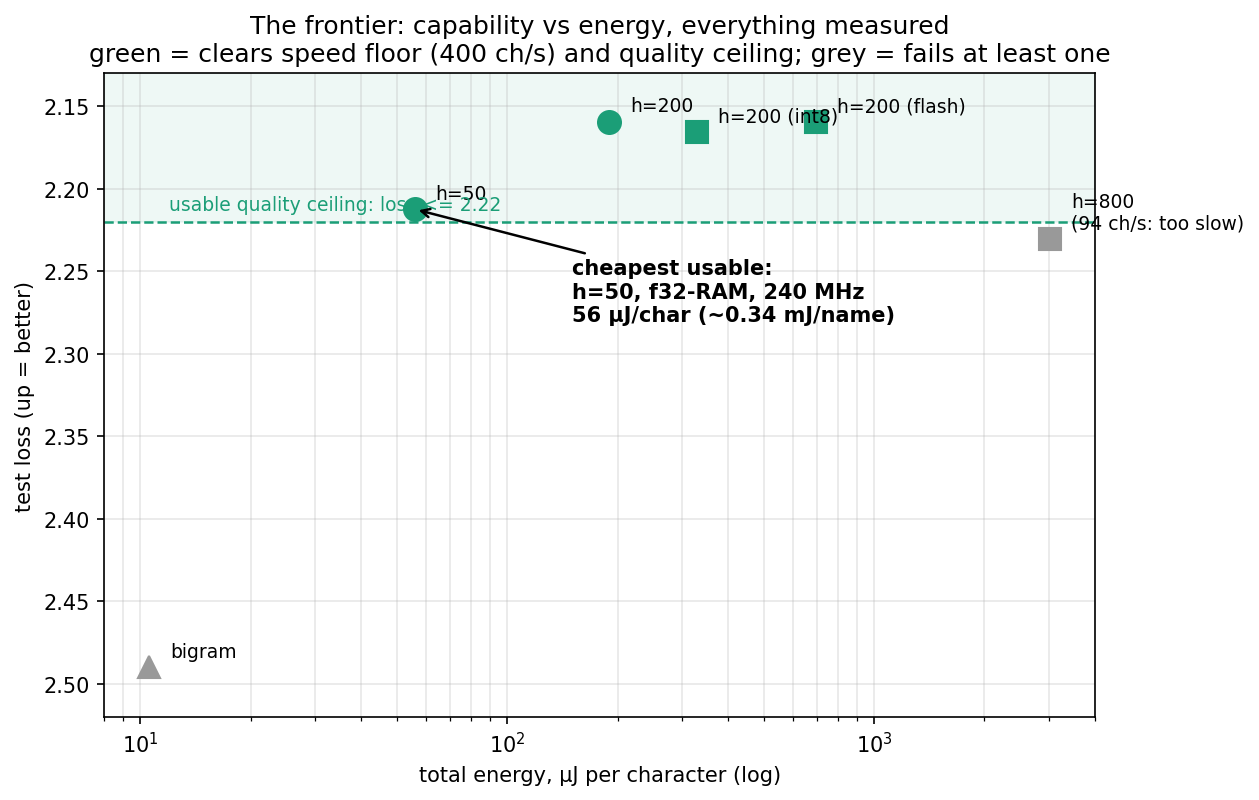
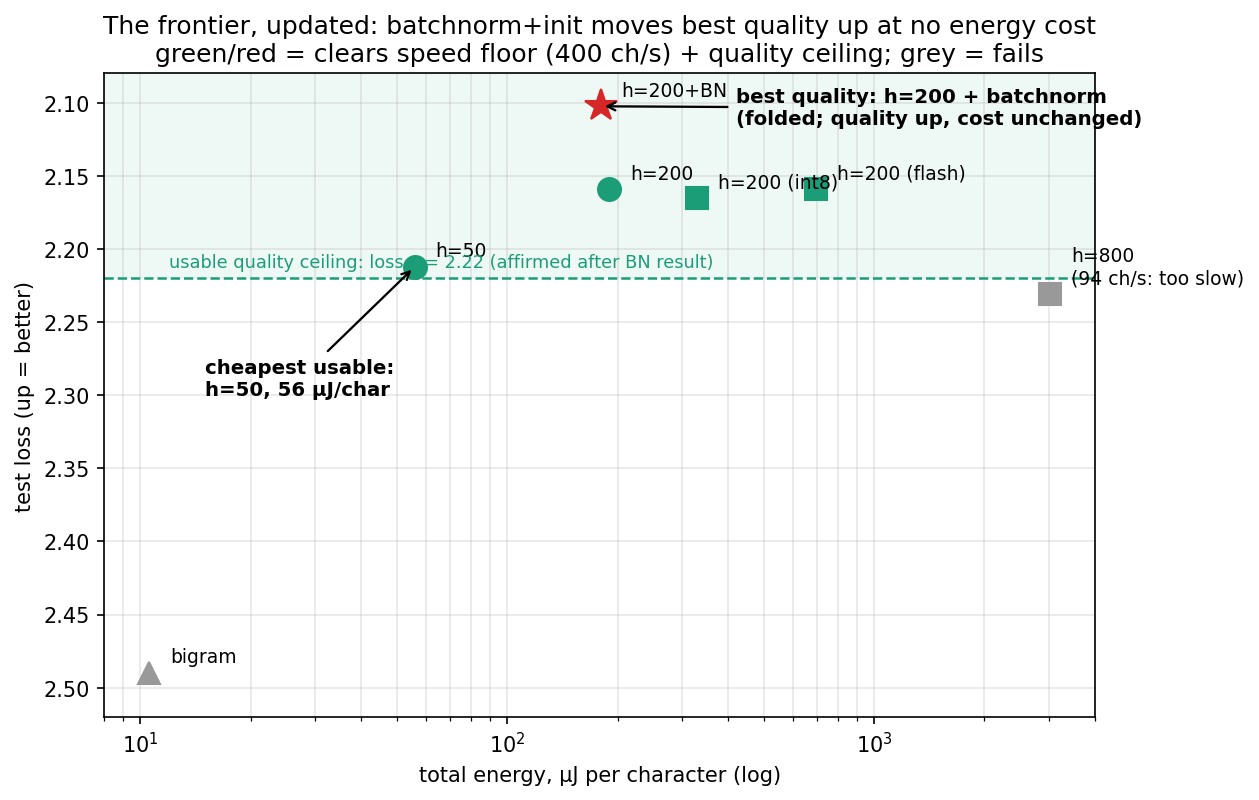
Measured and updated readme

diff --git a/README.md b/README.md
@@ -336,7 +336,8 @@ work.
 |---|---|---|---|---|
 | bigram, flash | 2.49 | 26,744 | 10.6 µJ | ✗ quality |
 | **h=50, f32-RAM** | **2.2123** | **5,110** | **56 µJ** | **✓ cheapest** |
-| h=200, f32-RAM | 2.1593 | 1,517 | 190 µJ | ✓ (best quality) |
+| h=200+BN (folded), f32-RAM | 2.1025 | 1,577 | 180 µJ | ✓ (best quality) |
+| h=200, f32-RAM | 2.1593 | 1,517 | 190 µJ | ✓ |
 | h=200, f32-flash | 2.1593 | 410 | 697 µJ | ✓ (marginal on speed) |
 | h=200, int8-flash | 2.1655 | 864 | 329 µJ | ✓ |
 | h=800, flash | 2.2306 | 94 | 3,021 µJ | ✗ quality and speed |
@@ -391,6 +392,31 @@ To run the benchmarks, simply upload, pull the usb out, power cycle the chip, an
 ## Future Work
 
 Here is a list of potential future stuff to work on that I have considered
-- IMplement batchnorm, attention, etc. to see how they would affect performance vs. cost
+- IMplement batchnorm (done), attention, etc. to see how they would affect performance vs. cost
 - Use a ESP32-S3 to run bigger models as well as SIMD support to see int8 vs f32 again
 - Full int8 arithmetics as promised
+
+### Update 1: batchnorm + proper init
+
+Retrained MLP hidden-200 with batchnorm and proper initialization (makemore video 3, including making output layer not overconfident):
+train 2.0617 / test 2.1025: a 0.057 improvement over the plain MLP at zero added parameters.
+
+Batchnorm was **folded into W1/b1 before export**: at inference, BN with running
+statistics is constant per-neuron arithmetic (scale by gain/std, shift by the
+folded bias), so it compiles away entirely — the exported model has the same
+shapes as the plain MLP and runs on the identical sketch. Folding verified
+exact in Colab (folded test loss matches unfolded to 4 decimals). This is
+standard deployment practice (TensorRT/TFLite do it automatically); LayerNorm,
+used in transformers, cannot be folded — its statistics depend on the live
+activations — which will matter if attention ever lands on this chip.
+
+Measured (240 MHz, f32-RAM): **1,577 chars/sec, 180 µJ/char total** — vs the
+plain MLP's 1,517 and 190. Same shapes and arithmetic, so the 4% speed
+difference is treated as run variation (plausibly data-dependent expf/tanhf
+timing), not a batchnorm speedup. The honest claim: **quality up 0.057 nats,
+inference cost unchanged.**
+
+The usable line stays at 2.22: it was derived from reading outputs, and the
+outputs it admits haven't changed. The verdict is therefore unchanged —
+hidden-50 remains cheapest-usable — while best-available quality moves to
+BN-h=200 at 180 µJ/char.
